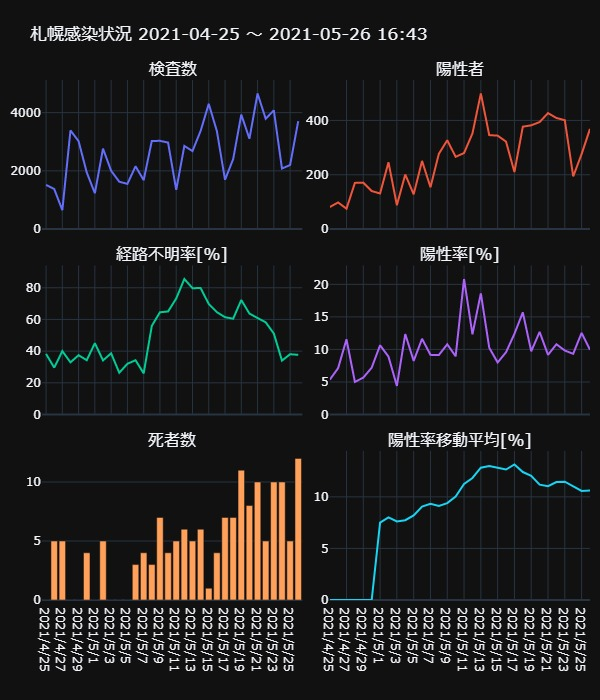
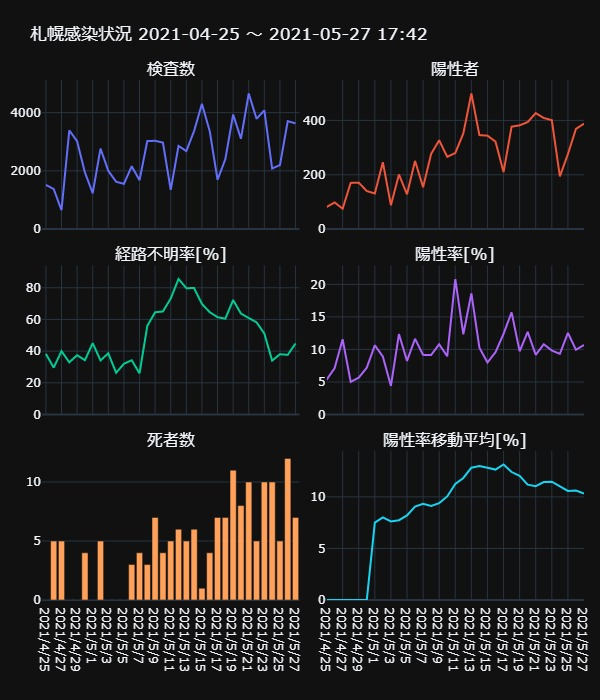
Updated with latest data.

diff --git a/docs/_includes/sapporo.html b/docs/_includes/sapporo.html
@@ -1,1 +1,1 @@
-<div>                            <div id="77634eeb-5a9f-4447-ae09-7cca35d6f6ae" class="plotly-graph-div" style="height:700px; width:600px;"></div>            <script type="text/javascript">                                    window.PLOTLYENV=window.PLOTLYENV || {};                                    if (document.getElementById("77634eeb-5a9f-4447-ae09-7cca35d6f6ae")) {                    Plotly.newPlot(                        "77634eeb-5a9f-4447-ae09-7cca35d6f6ae",                        [{"name": "\u691c\u67fb\u6570", "type": "scatter", "x": ["2021/4/25", "2021/4/26", "2021/4/27", "2021/4/28", "2021/4/29", "2021/4/30", "2021/5/1", "2021/5/2", "2021/5/3", "2021/5/4", "2021/5/5", "2021/5/6", "2021/5/7", "2021/5/8", "2021/5/9", "2021/5/10", "2021/5/11", "2021/5/12", "2021/5/13", "2021/5/14", "2021/5/15", "2021/5/16", "2021/5/17", "2021/5/18", "2021/5/19", "2021/5/20", "2021/5/21", "2021/5/22", "2021/5/23", "2021/5/24", "2021/5/25", "2021/5/26"], "xaxis": "x", "y": [1517, 1377, 649, 3391, 3018, 1946, 1231, 2764, 2001, 1626, 1553, 2157, 1680, 3028, 3031, 2972, 1345, 2856, 2680, 3372, 4302, 3365, 1694, 2402, 3933, 3105, 4656, 3789, 4080, 2080, 2201, 3708], "yaxis": "y"}, {"name": "\u967d\u6027\u8005", "type": "scatter", "x": ["2021/4/25", "2021/4/26", "2021/4/27", "2021/4/28", "2021/4/29", "2021/4/30", "2021/5/1", "2021/5/2", "2021/5/3", "2021/5/4", "2021/5/5", "2021/5/6", "2021/5/7", "2021/5/8", "2021/5/9", "2021/5/10", "2021/5/11", "2021/5/12", "2021/5/13", "2021/5/14", "2021/5/15", "2021/5/16", "2021/5/17", "2021/5/18", "2021/5/19", "2021/5/20", "2021/5/21", "2021/5/22", "2021/5/23", "2021/5/24", "2021/5/25", "2021/5/26"], "xaxis": "x2", "y": [81, 98, 75, 170, 171, 140, 131, 246, 88, 201, 128, 251, 154, 277, 327, 266, 280, 352, 499, 346, 344, 322, 210, 377, 382, 394, 427, 409, 401, 194, 276, 369], "yaxis": "y2"}, {"name": "\u7d4c\u8def\u4e0d\u660e\u7387[%]", "type": "scatter", "x": ["2021/4/25", "2021/4/26", "2021/4/27", "2021/4/28", "2021/4/29", "2021/4/30", "2021/5/1", "2021/5/2", "2021/5/3", "2021/5/4", "2021/5/5", "2021/5/6", "2021/5/7", "2021/5/8", "2021/5/9", "2021/5/10", "2021/5/11", "2021/5/12", "2021/5/13", "2021/5/14", "2021/5/15", "2021/5/16", "2021/5/17", "2021/5/18", "2021/5/19", "2021/5/20", "2021/5/21", "2021/5/22", "2021/5/23", "2021/5/24", "2021/5/25", "2021/5/26"], "xaxis": "x3", "y": [38.2716049382716, 29.591836734693878, 40.0, 32.94117647058823, 37.42690058479532, 34.285714285714285, 45.038167938931295, 34.146341463414636, 38.63636363636363, 26.368159203980102, 32.03125, 34.26294820717131, 25.97402597402597, 55.95667870036101, 64.52599388379205, 65.0375939849624, 73.21428571428571, 85.51136363636364, 79.75951903807615, 79.76878612716763, 69.76744186046511, 64.59627329192547, 61.42857142857143, 60.47745358090185, 72.25130890052355, 63.70558375634518, 60.88992974238876, 58.19070904645477, 51.12219451371571, 34.02061855670103, 38.04347826086957, 37.669376693766935], "yaxis": "y3"}, {"name": "\u967d\u6027\u7387[%]", "type": "scatter", "x": ["2021/4/25", "2021/4/26", "2021/4/27", "2021/4/28", "2021/4/29", "2021/4/30", "2021/5/1", "2021/5/2", "2021/5/3", "2021/5/4", "2021/5/5", "2021/5/6", "2021/5/7", "2021/5/8", "2021/5/9", "2021/5/10", "2021/5/11", "2021/5/12", "2021/5/13", "2021/5/14", "2021/5/15", "2021/5/16", "2021/5/17", "2021/5/18", "2021/5/19", "2021/5/20", "2021/5/21", "2021/5/22", "2021/5/23", "2021/5/24", "2021/5/25", "2021/5/26"], "xaxis": "x4", "y": [5.339485827290705, 7.116920842411038, 11.556240369799692, 5.013270421704512, 5.666003976143141, 7.194244604316546, 10.641754670999187, 8.90014471780029, 4.397801099450275, 12.361623616236162, 8.24211204121056, 11.636532220676866, 9.166666666666666, 9.147952443857331, 10.788518640712635, 8.950201884253028, 20.817843866171003, 12.324929971988796, 18.619402985074625, 10.26097271648873, 7.996280799628081, 9.569093610698365, 12.396694214876034, 15.695253955037469, 9.712687515891178, 12.689210950080515, 9.170962199312713, 10.794404856162576, 9.82843137254902, 9.326923076923077, 12.539754656974104, 9.951456310679612], "yaxis": "y4"}, {"name": "\u6b7b\u8005\u6570", "type": "bar", "x": ["2021/4/25", "2021/4/26", "2021/4/27", "2021/4/28", "2021/4/29", "2021/4/30", "2021/5/1", "2021/5/2", "2021/5/3", "2021/5/4", "2021/5/5", "2021/5/6", "2021/5/7", "2021/5/8", "2021/5/9", "2021/5/10", "2021/5/11", "2021/5/12", "2021/5/13", "2021/5/14", "2021/5/15", "2021/5/16", "2021/5/17", "2021/5/18", "2021/5/19", "2021/5/20", "2021/5/21", "2021/5/22", "2021/5/23", "2021/5/24", "2021/5/25", "2021/5/26"], "xaxis": "x5", "y": [0, 5, 5, 0, 0, 4, 0, 5, 0, 0, 0, 3, 4, 3, 7, 4, 5, 6, 5, 6, 1, 4, 7, 7, 11, 8, 10, 5, 10, 10, 5, 12], "yaxis": "y5"}, {"name": "\u967d\u6027\u7387\u79fb\u52d5\u5e73\u5747[%]", "type": "scatter", "x": ["2021/4/25", "2021/4/26", "2021/4/27", "2021/4/28", "2021/4/29", "2021/4/30", "2021/5/1", "2021/5/2", "2021/5/3", "2021/5/4", "2021/5/5", "2021/5/6", "2021/5/7", "2021/5/8", "2021/5/9", "2021/5/10", "2021/5/11", "2021/5/12", "2021/5/13", "2021/5/14", "2021/5/15", "2021/5/16", "2021/5/17", "2021/5/18", "2021/5/19", "2021/5/20", "2021/5/21", "2021/5/22", "2021/5/23", "2021/5/24", "2021/5/25", "2021/5/26"], "xaxis": "x6", "y": [0.0, 0.0, 0.0, 0.0, 0.0, 0.0, 7.503988673237832, 8.012654229024914, 7.624208551459091, 7.739263300950015, 8.20052638945088, 9.053458995812841, 9.335233576148571, 9.12183325798545, 9.391600961258641, 10.041943930516178, 11.249975394792585, 11.833235099189475, 12.830788065532012, 12.987117501220878, 12.8225929806167, 12.648389404900376, 13.140745452132233, 12.408946893398872, 12.035769399670638, 11.188599108957195, 11.032883320789193, 11.432615328865548, 11.469663580558498, 11.03112484656522, 10.580339232556168, 10.614449060383087], "yaxis": "y6"}],                        {"annotations": [{"font": {"size": 16}, "showarrow": false, "text": "\u691c\u67fb\u6570", "x": 0.2375, "xanchor": "center", "xref": "paper", "y": 1.0, "yanchor": "bottom", "yref": "paper"}, {"font": {"size": 16}, "showarrow": false, "text": "\u967d\u6027\u8005", "x": 0.7625, "xanchor": "center", "xref": "paper", "y": 1.0, "yanchor": "bottom", "yref": "paper"}, {"font": {"size": 16}, "showarrow": false, "text": "\u7d4c\u8def\u4e0d\u660e\u7387[%]", "x": 0.2375, "xanchor": "center", "xref": "paper", "y": 0.6433333333333333, "yanchor": "bottom", "yref": "paper"}, {"font": {"size": 16}, "showarrow": false, "text": "\u967d\u6027\u7387[%]", "x": 0.7625, "xanchor": "center", "xref": "paper", "y": 0.6433333333333333, "yanchor": "bottom", "yref": "paper"}, {"font": {"size": 16}, "showarrow": false, "text": "\u6b7b\u8005\u6570", "x": 0.2375, "xanchor": "center", "xref": "paper", "y": 0.2866666666666667, "yanchor": "bottom", "yref": "paper"}, {"font": {"size": 16}, "showarrow": false, "text": "\u967d\u6027\u7387\u79fb\u52d5\u5e73\u5747[%]", "x": 0.7625, "xanchor": "center", "xref": "paper", "y": 0.2866666666666667, "yanchor": "bottom", "yref": "paper"}], "height": 700, "margin": {"b": 100, "l": 10, "r": 10, "t": 80}, "showlegend": false, "template": {"data": {"bar": [{"error_x": {"color": "#f2f5fa"}, "error_y": {"color": "#f2f5fa"}, "marker": {"line": {"color": "rgb(17,17,17)", "width": 0.5}}, "type": "bar"}], "barpolar": [{"marker": {"line": {"color": "rgb(17,17,17)", "width": 0.5}}, "type": "barpolar"}], "carpet": [{"aaxis": {"endlinecolor": "#A2B1C6", "gridcolor": "#506784", "linecolor": "#506784", "minorgridcolor": "#506784", "startlinecolor": "#A2B1C6"}, "baxis": {"endlinecolor": "#A2B1C6", "gridcolor": "#506784", "linecolor": "#506784", "minorgridcolor": "#506784", "startlinecolor": "#A2B1C6"}, "type": "carpet"}], "choropleth": [{"colorbar": {"outlinewidth": 0, "ticks": ""}, "type": "choropleth"}], "contour": [{"colorbar": {"outlinewidth": 0, "ticks": ""}, "colorscale": [[0.0, "#0d0887"], [0.1111111111111111, "#46039f"], [0.2222222222222222, "#7201a8"], [0.3333333333333333, "#9c179e"], [0.4444444444444444, "#bd3786"], [0.5555555555555556, "#d8576b"], [0.6666666666666666, "#ed7953"], [0.7777777777777778, "#fb9f3a"], [0.8888888888888888, "#fdca26"], [1.0, "#f0f921"]], "type": "contour"}], "contourcarpet": [{"colorbar": {"outlinewidth": 0, "ticks": ""}, "type": "contourcarpet"}], "heatmap": [{"colorbar": {"outlinewidth": 0, "ticks": ""}, "colorscale": [[0.0, "#0d0887"], [0.1111111111111111, "#46039f"], [0.2222222222222222, "#7201a8"], [0.3333333333333333, "#9c179e"], [0.4444444444444444, "#bd3786"], [0.5555555555555556, "#d8576b"], [0.6666666666666666, "#ed7953"], [0.7777777777777778, "#fb9f3a"], [0.8888888888888888, "#fdca26"], [1.0, "#f0f921"]], "type": "heatmap"}], "heatmapgl": [{"colorbar": {"outlinewidth": 0, "ticks": ""}, "colorscale": [[0.0, "#0d0887"], [0.1111111111111111, "#46039f"], [0.2222222222222222, "#7201a8"], [0.3333333333333333, "#9c179e"], [0.4444444444444444, "#bd3786"], [0.5555555555555556, "#d8576b"], [0.6666666666666666, "#ed7953"], [0.7777777777777778, "#fb9f3a"], [0.8888888888888888, "#fdca26"], [1.0, "#f0f921"]], "type": "heatmapgl"}], "histogram": [{"marker": {"colorbar": {"outlinewidth": 0, "ticks": ""}}, "type": "histogram"}], "histogram2d": [{"colorbar": {"outlinewidth": 0, "ticks": ""}, "colorscale": [[0.0, "#0d0887"], [0.1111111111111111, "#46039f"], [0.2222222222222222, "#7201a8"], [0.3333333333333333, "#9c179e"], [0.4444444444444444, "#bd3786"], [0.5555555555555556, "#d8576b"], [0.6666666666666666, "#ed7953"], [0.7777777777777778, "#fb9f3a"], [0.8888888888888888, "#fdca26"], [1.0, "#f0f921"]], "type": "histogram2d"}], "histogram2dcontour": [{"colorbar": {"outlinewidth": 0, "ticks": ""}, "colorscale": [[0.0, "#0d0887"], [0.1111111111111111, "#46039f"], [0.2222222222222222, "#7201a8"], [0.3333333333333333, "#9c179e"], [0.4444444444444444, "#bd3786"], [0.5555555555555556, "#d8576b"], [0.6666666666666666, "#ed7953"], [0.7777777777777778, "#fb9f3a"], [0.8888888888888888, "#fdca26"], [1.0, "#f0f921"]], "type": "histogram2dcontour"}], "mesh3d": [{"colorbar": {"outlinewidth": 0, "ticks": ""}, "type": "mesh3d"}], "parcoords": [{"line": {"colorbar": {"outlinewidth": 0, "ticks": ""}}, "type": "parcoords"}], "pie": [{"automargin": true, "type": "pie"}], "scatter": [{"marker": {"line": {"color": "#283442"}}, "type": "scatter"}], "scatter3d": [{"line": {"colorbar": {"outlinewidth": 0, "ticks": ""}}, "marker": {"colorbar": {"outlinewidth": 0, "ticks": ""}}, "type": "scatter3d"}], "scattercarpet": [{"marker": {"colorbar": {"outlinewidth": 0, "ticks": ""}}, "type": "scattercarpet"}], "scattergeo": [{"marker": {"colorbar": {"outlinewidth": 0, "ticks": ""}}, "type": "scattergeo"}], "scattergl": [{"marker": {"line": {"color": "#283442"}}, "type": "scattergl"}], "scattermapbox": [{"marker": {"colorbar": {"outlinewidth": 0, "ticks": ""}}, "type": "scattermapbox"}], "scatterpolar": [{"marker": {"colorbar": {"outlinewidth": 0, "ticks": ""}}, "type": "scatterpolar"}], "scatterpolargl": [{"marker": {"colorbar": {"outlinewidth": 0, "ticks": ""}}, "type": "scatterpolargl"}], "scatterternary": [{"marker": {"colorbar": {"outlinewidth": 0, "ticks": ""}}, "type": "scatterternary"}], "surface": [{"colorbar": {"outlinewidth": 0, "ticks": ""}, "colorscale": [[0.0, "#0d0887"], [0.1111111111111111, "#46039f"], [0.2222222222222222, "#7201a8"], [0.3333333333333333, "#9c179e"], [0.4444444444444444, "#bd3786"], [0.5555555555555556, "#d8576b"], [0.6666666666666666, "#ed7953"], [0.7777777777777778, "#fb9f3a"], [0.8888888888888888, "#fdca26"], [1.0, "#f0f921"]], "type": "surface"}], "table": [{"cells": {"fill": {"color": "#506784"}, "line": {"color": "rgb(17,17,17)"}}, "header": {"fill": {"color": "#2a3f5f"}, "line": {"color": "rgb(17,17,17)"}}, "type": "table"}]}, "layout": {"annotationdefaults": {"arrowcolor": "#f2f5fa", "arrowhead": 0, "arrowwidth": 1}, "autotypenumbers": "strict", "coloraxis": {"colorbar": {"outlinewidth": 0, "ticks": ""}}, "colorscale": {"diverging": [[0, "#8e0152"], [0.1, "#c51b7d"], [0.2, "#de77ae"], [0.3, "#f1b6da"], [0.4, "#fde0ef"], [0.5, "#f7f7f7"], [0.6, "#e6f5d0"], [0.7, "#b8e186"], [0.8, "#7fbc41"], [0.9, "#4d9221"], [1, "#276419"]], "sequential": [[0.0, "#0d0887"], [0.1111111111111111, "#46039f"], [0.2222222222222222, "#7201a8"], [0.3333333333333333, "#9c179e"], [0.4444444444444444, "#bd3786"], [0.5555555555555556, "#d8576b"], [0.6666666666666666, "#ed7953"], [0.7777777777777778, "#fb9f3a"], [0.8888888888888888, "#fdca26"], [1.0, "#f0f921"]], "sequentialminus": [[0.0, "#0d0887"], [0.1111111111111111, "#46039f"], [0.2222222222222222, "#7201a8"], [0.3333333333333333, "#9c179e"], [0.4444444444444444, "#bd3786"], [0.5555555555555556, "#d8576b"], [0.6666666666666666, "#ed7953"], [0.7777777777777778, "#fb9f3a"], [0.8888888888888888, "#fdca26"], [1.0, "#f0f921"]]}, "colorway": ["#636efa", "#EF553B", "#00cc96", "#ab63fa", "#FFA15A", "#19d3f3", "#FF6692", "#B6E880", "#FF97FF", "#FECB52"], "font": {"color": "#f2f5fa"}, "geo": {"bgcolor": "rgb(17,17,17)", "lakecolor": "rgb(17,17,17)", "landcolor": "rgb(17,17,17)", "showlakes": true, "showland": true, "subunitcolor": "#506784"}, "hoverlabel": {"align": "left"}, "hovermode": "closest", "mapbox": {"style": "dark"}, "paper_bgcolor": "rgb(17,17,17)", "plot_bgcolor": "rgb(17,17,17)", "polar": {"angularaxis": {"gridcolor": "#506784", "linecolor": "#506784", "ticks": ""}, "bgcolor": "rgb(17,17,17)", "radialaxis": {"gridcolor": "#506784", "linecolor": "#506784", "ticks": ""}}, "scene": {"xaxis": {"backgroundcolor": "rgb(17,17,17)", "gridcolor": "#506784", "gridwidth": 2, "linecolor": "#506784", "showbackground": true, "ticks": "", "zerolinecolor": "#C8D4E3"}, "yaxis": {"backgroundcolor": "rgb(17,17,17)", "gridcolor": "#506784", "gridwidth": 2, "linecolor": "#506784", "showbackground": true, "ticks": "", "zerolinecolor": "#C8D4E3"}, "zaxis": {"backgroundcolor": "rgb(17,17,17)", "gridcolor": "#506784", "gridwidth": 2, "linecolor": "#506784", "showbackground": true, "ticks": "", "zerolinecolor": "#C8D4E3"}}, "shapedefaults": {"line": {"color": "#f2f5fa"}}, "sliderdefaults": {"bgcolor": "#C8D4E3", "bordercolor": "rgb(17,17,17)", "borderwidth": 1, "tickwidth": 0}, "ternary": {"aaxis": {"gridcolor": "#506784", "linecolor": "#506784", "ticks": ""}, "baxis": {"gridcolor": "#506784", "linecolor": "#506784", "ticks": ""}, "bgcolor": "rgb(17,17,17)", "caxis": {"gridcolor": "#506784", "linecolor": "#506784", "ticks": ""}}, "title": {"x": 0.05}, "updatemenudefaults": {"bgcolor": "#506784", "borderwidth": 0}, "xaxis": {"automargin": true, "gridcolor": "#283442", "linecolor": "#506784", "ticks": "", "title": {"standoff": 15}, "zerolinecolor": "#283442", "zerolinewidth": 2}, "yaxis": {"automargin": true, "gridcolor": "#283442", "linecolor": "#506784", "ticks": "", "title": {"standoff": 15}, "zerolinecolor": "#283442", "zerolinewidth": 2}}}, "title": {"text": "\u672d\u5e4c\u611f\u67d3\u72b6\u6cc1 2021-04-25 \uff5e 2021-05-26 16:43"}, "width": 600, "xaxis": {"anchor": "y", "domain": [0.0, 0.475], "matches": "x5", "showticklabels": false}, "xaxis2": {"anchor": "y2", "domain": [0.525, 1.0], "matches": "x6", "showticklabels": false}, "xaxis3": {"anchor": "y3", "domain": [0.0, 0.475], "matches": "x5", "showticklabels": false}, "xaxis4": {"anchor": "y4", "domain": [0.525, 1.0], "matches": "x6", "showticklabels": false}, "xaxis5": {"anchor": "y5", "domain": [0.0, 0.475]}, "xaxis6": {"anchor": "y6", "domain": [0.525, 1.0]}, "yaxis": {"anchor": "x", "domain": [0.7133333333333334, 1.0], "range": [0, 5121.6]}, "yaxis2": {"anchor": "x2", "domain": [0.7133333333333334, 1.0], "range": [0, 548.9000000000001]}, "yaxis3": {"anchor": "x3", "domain": [0.3566666666666667, 0.6433333333333333], "range": [0, 94.06250000000001]}, "yaxis4": {"anchor": "x4", "domain": [0.3566666666666667, 0.6433333333333333], "range": [0, 22.899628252788105]}, "yaxis5": {"anchor": "x5", "domain": [0.0, 0.2866666666666667]}, "yaxis6": {"anchor": "x6", "domain": [0.0, 0.2866666666666667], "range": [0, 14.454819997345457]}},                        {"responsive": true}                    )                };                            </script>        </div>
+<div>                            <div id="28dfac5b-bb0c-4555-ad50-c89095ffc276" class="plotly-graph-div" style="height:700px; width:600px;"></div>            <script type="text/javascript">                                    window.PLOTLYENV=window.PLOTLYENV || {};                                    if (document.getElementById("28dfac5b-bb0c-4555-ad50-c89095ffc276")) {                    Plotly.newPlot(                        "28dfac5b-bb0c-4555-ad50-c89095ffc276",                        [{"name": "\u691c\u67fb\u6570", "type": "scatter", "x": ["2021/4/25", "2021/4/26", "2021/4/27", "2021/4/28", "2021/4/29", "2021/4/30", "2021/5/1", "2021/5/2", "2021/5/3", "2021/5/4", "2021/5/5", "2021/5/6", "2021/5/7", "2021/5/8", "2021/5/9", "2021/5/10", "2021/5/11", "2021/5/12", "2021/5/13", "2021/5/14", "2021/5/15", "2021/5/16", "2021/5/17", "2021/5/18", "2021/5/19", "2021/5/20", "2021/5/21", "2021/5/22", "2021/5/23", "2021/5/24", "2021/5/25", "2021/5/26", "2021/5/27"], "xaxis": "x", "y": [1517, 1377, 649, 3391, 3018, 1946, 1231, 2764, 2001, 1626, 1553, 2157, 1680, 3028, 3031, 2972, 1345, 2856, 2680, 3372, 4302, 3365, 1694, 2402, 3933, 3105, 4656, 3789, 4080, 2080, 2201, 3708, 3632], "yaxis": "y"}, {"name": "\u967d\u6027\u8005", "type": "scatter", "x": ["2021/4/25", "2021/4/26", "2021/4/27", "2021/4/28", "2021/4/29", "2021/4/30", "2021/5/1", "2021/5/2", "2021/5/3", "2021/5/4", "2021/5/5", "2021/5/6", "2021/5/7", "2021/5/8", "2021/5/9", "2021/5/10", "2021/5/11", "2021/5/12", "2021/5/13", "2021/5/14", "2021/5/15", "2021/5/16", "2021/5/17", "2021/5/18", "2021/5/19", "2021/5/20", "2021/5/21", "2021/5/22", "2021/5/23", "2021/5/24", "2021/5/25", "2021/5/26", "2021/5/27"], "xaxis": "x2", "y": [81, 98, 75, 170, 171, 140, 131, 246, 88, 201, 128, 251, 154, 277, 327, 266, 280, 352, 499, 346, 344, 322, 210, 377, 382, 394, 427, 409, 401, 194, 276, 369, 388], "yaxis": "y2"}, {"name": "\u7d4c\u8def\u4e0d\u660e\u7387[%]", "type": "scatter", "x": ["2021/4/25", "2021/4/26", "2021/4/27", "2021/4/28", "2021/4/29", "2021/4/30", "2021/5/1", "2021/5/2", "2021/5/3", "2021/5/4", "2021/5/5", "2021/5/6", "2021/5/7", "2021/5/8", "2021/5/9", "2021/5/10", "2021/5/11", "2021/5/12", "2021/5/13", "2021/5/14", "2021/5/15", "2021/5/16", "2021/5/17", "2021/5/18", "2021/5/19", "2021/5/20", "2021/5/21", "2021/5/22", "2021/5/23", "2021/5/24", "2021/5/25", "2021/5/26", "2021/5/27"], "xaxis": "x3", "y": [38.2716049382716, 29.591836734693878, 40.0, 32.94117647058823, 37.42690058479532, 34.285714285714285, 45.038167938931295, 34.146341463414636, 38.63636363636363, 26.368159203980102, 32.03125, 34.26294820717131, 25.97402597402597, 55.95667870036101, 64.52599388379205, 65.0375939849624, 73.21428571428571, 85.51136363636364, 79.75951903807615, 79.76878612716763, 69.76744186046511, 64.59627329192547, 61.42857142857143, 60.47745358090185, 72.25130890052355, 63.70558375634518, 60.88992974238876, 58.19070904645477, 51.12219451371571, 34.02061855670103, 38.04347826086957, 37.669376693766935, 44.84536082474227], "yaxis": "y3"}, {"name": "\u967d\u6027\u7387[%]", "type": "scatter", "x": ["2021/4/25", "2021/4/26", "2021/4/27", "2021/4/28", "2021/4/29", "2021/4/30", "2021/5/1", "2021/5/2", "2021/5/3", "2021/5/4", "2021/5/5", "2021/5/6", "2021/5/7", "2021/5/8", "2021/5/9", "2021/5/10", "2021/5/11", "2021/5/12", "2021/5/13", "2021/5/14", "2021/5/15", "2021/5/16", "2021/5/17", "2021/5/18", "2021/5/19", "2021/5/20", "2021/5/21", "2021/5/22", "2021/5/23", "2021/5/24", "2021/5/25", "2021/5/26", "2021/5/27"], "xaxis": "x4", "y": [5.339485827290705, 7.116920842411038, 11.556240369799692, 5.013270421704512, 5.666003976143141, 7.194244604316546, 10.641754670999187, 8.90014471780029, 4.397801099450275, 12.361623616236162, 8.24211204121056, 11.636532220676866, 9.166666666666666, 9.147952443857331, 10.788518640712635, 8.950201884253028, 20.817843866171003, 12.324929971988796, 18.619402985074625, 10.26097271648873, 7.996280799628081, 9.569093610698365, 12.396694214876034, 15.695253955037469, 9.712687515891178, 12.689210950080515, 9.170962199312713, 10.794404856162576, 9.82843137254902, 9.326923076923077, 12.539754656974104, 9.951456310679612, 10.682819383259911], "yaxis": "y4"}, {"name": "\u6b7b\u8005\u6570", "type": "bar", "x": ["2021/4/25", "2021/4/26", "2021/4/27", "2021/4/28", "2021/4/29", "2021/4/30", "2021/5/1", "2021/5/2", "2021/5/3", "2021/5/4", "2021/5/5", "2021/5/6", "2021/5/7", "2021/5/8", "2021/5/9", "2021/5/10", "2021/5/11", "2021/5/12", "2021/5/13", "2021/5/14", "2021/5/15", "2021/5/16", "2021/5/17", "2021/5/18", "2021/5/19", "2021/5/20", "2021/5/21", "2021/5/22", "2021/5/23", "2021/5/24", "2021/5/25", "2021/5/26", "2021/5/27"], "xaxis": "x5", "y": [0, 5, 5, 0, 0, 4, 0, 5, 0, 0, 0, 3, 4, 3, 7, 4, 5, 6, 5, 6, 1, 4, 7, 7, 11, 8, 10, 5, 10, 10, 5, 12, 7], "yaxis": "y5"}, {"name": "\u967d\u6027\u7387\u79fb\u52d5\u5e73\u5747[%]", "type": "scatter", "x": ["2021/4/25", "2021/4/26", "2021/4/27", "2021/4/28", "2021/4/29", "2021/4/30", "2021/5/1", "2021/5/2", "2021/5/3", "2021/5/4", "2021/5/5", "2021/5/6", "2021/5/7", "2021/5/8", "2021/5/9", "2021/5/10", "2021/5/11", "2021/5/12", "2021/5/13", "2021/5/14", "2021/5/15", "2021/5/16", "2021/5/17", "2021/5/18", "2021/5/19", "2021/5/20", "2021/5/21", "2021/5/22", "2021/5/23", "2021/5/24", "2021/5/25", "2021/5/26", "2021/5/27"], "xaxis": "x6", "y": [0.0, 0.0, 0.0, 0.0, 0.0, 0.0, 7.503988673237832, 8.012654229024914, 7.624208551459091, 7.739263300950015, 8.20052638945088, 9.053458995812841, 9.335233576148571, 9.12183325798545, 9.391600961258641, 10.041943930516178, 11.249975394792585, 11.833235099189475, 12.830788065532012, 12.987117501220878, 12.8225929806167, 12.648389404900376, 13.140745452132233, 12.408946893398872, 12.035769399670638, 11.188599108957195, 11.032883320789193, 11.432615328865548, 11.469663580558498, 11.03112484656522, 10.580339232556168, 10.614449060383087, 10.32782169369443], "yaxis": "y6"}],                        {"annotations": [{"font": {"size": 16}, "showarrow": false, "text": "\u691c\u67fb\u6570", "x": 0.2375, "xanchor": "center", "xref": "paper", "y": 1.0, "yanchor": "bottom", "yref": "paper"}, {"font": {"size": 16}, "showarrow": false, "text": "\u967d\u6027\u8005", "x": 0.7625, "xanchor": "center", "xref": "paper", "y": 1.0, "yanchor": "bottom", "yref": "paper"}, {"font": {"size": 16}, "showarrow": false, "text": "\u7d4c\u8def\u4e0d\u660e\u7387[%]", "x": 0.2375, "xanchor": "center", "xref": "paper", "y": 0.6433333333333333, "yanchor": "bottom", "yref": "paper"}, {"font": {"size": 16}, "showarrow": false, "text": "\u967d\u6027\u7387[%]", "x": 0.7625, "xanchor": "center", "xref": "paper", "y": 0.6433333333333333, "yanchor": "bottom", "yref": "paper"}, {"font": {"size": 16}, "showarrow": false, "text": "\u6b7b\u8005\u6570", "x": 0.2375, "xanchor": "center", "xref": "paper", "y": 0.2866666666666667, "yanchor": "bottom", "yref": "paper"}, {"font": {"size": 16}, "showarrow": false, "text": "\u967d\u6027\u7387\u79fb\u52d5\u5e73\u5747[%]", "x": 0.7625, "xanchor": "center", "xref": "paper", "y": 0.2866666666666667, "yanchor": "bottom", "yref": "paper"}], "height": 700, "margin": {"b": 100, "l": 10, "r": 10, "t": 80}, "showlegend": false, "template": {"data": {"bar": [{"error_x": {"color": "#f2f5fa"}, "error_y": {"color": "#f2f5fa"}, "marker": {"line": {"color": "rgb(17,17,17)", "width": 0.5}}, "type": "bar"}], "barpolar": [{"marker": {"line": {"color": "rgb(17,17,17)", "width": 0.5}}, "type": "barpolar"}], "carpet": [{"aaxis": {"endlinecolor": "#A2B1C6", "gridcolor": "#506784", "linecolor": "#506784", "minorgridcolor": "#506784", "startlinecolor": "#A2B1C6"}, "baxis": {"endlinecolor": "#A2B1C6", "gridcolor": "#506784", "linecolor": "#506784", "minorgridcolor": "#506784", "startlinecolor": "#A2B1C6"}, "type": "carpet"}], "choropleth": [{"colorbar": {"outlinewidth": 0, "ticks": ""}, "type": "choropleth"}], "contour": [{"colorbar": {"outlinewidth": 0, "ticks": ""}, "colorscale": [[0.0, "#0d0887"], [0.1111111111111111, "#46039f"], [0.2222222222222222, "#7201a8"], [0.3333333333333333, "#9c179e"], [0.4444444444444444, "#bd3786"], [0.5555555555555556, "#d8576b"], [0.6666666666666666, "#ed7953"], [0.7777777777777778, "#fb9f3a"], [0.8888888888888888, "#fdca26"], [1.0, "#f0f921"]], "type": "contour"}], "contourcarpet": [{"colorbar": {"outlinewidth": 0, "ticks": ""}, "type": "contourcarpet"}], "heatmap": [{"colorbar": {"outlinewidth": 0, "ticks": ""}, "colorscale": [[0.0, "#0d0887"], [0.1111111111111111, "#46039f"], [0.2222222222222222, "#7201a8"], [0.3333333333333333, "#9c179e"], [0.4444444444444444, "#bd3786"], [0.5555555555555556, "#d8576b"], [0.6666666666666666, "#ed7953"], [0.7777777777777778, "#fb9f3a"], [0.8888888888888888, "#fdca26"], [1.0, "#f0f921"]], "type": "heatmap"}], "heatmapgl": [{"colorbar": {"outlinewidth": 0, "ticks": ""}, "colorscale": [[0.0, "#0d0887"], [0.1111111111111111, "#46039f"], [0.2222222222222222, "#7201a8"], [0.3333333333333333, "#9c179e"], [0.4444444444444444, "#bd3786"], [0.5555555555555556, "#d8576b"], [0.6666666666666666, "#ed7953"], [0.7777777777777778, "#fb9f3a"], [0.8888888888888888, "#fdca26"], [1.0, "#f0f921"]], "type": "heatmapgl"}], "histogram": [{"marker": {"colorbar": {"outlinewidth": 0, "ticks": ""}}, "type": "histogram"}], "histogram2d": [{"colorbar": {"outlinewidth": 0, "ticks": ""}, "colorscale": [[0.0, "#0d0887"], [0.1111111111111111, "#46039f"], [0.2222222222222222, "#7201a8"], [0.3333333333333333, "#9c179e"], [0.4444444444444444, "#bd3786"], [0.5555555555555556, "#d8576b"], [0.6666666666666666, "#ed7953"], [0.7777777777777778, "#fb9f3a"], [0.8888888888888888, "#fdca26"], [1.0, "#f0f921"]], "type": "histogram2d"}], "histogram2dcontour": [{"colorbar": {"outlinewidth": 0, "ticks": ""}, "colorscale": [[0.0, "#0d0887"], [0.1111111111111111, "#46039f"], [0.2222222222222222, "#7201a8"], [0.3333333333333333, "#9c179e"], [0.4444444444444444, "#bd3786"], [0.5555555555555556, "#d8576b"], [0.6666666666666666, "#ed7953"], [0.7777777777777778, "#fb9f3a"], [0.8888888888888888, "#fdca26"], [1.0, "#f0f921"]], "type": "histogram2dcontour"}], "mesh3d": [{"colorbar": {"outlinewidth": 0, "ticks": ""}, "type": "mesh3d"}], "parcoords": [{"line": {"colorbar": {"outlinewidth": 0, "ticks": ""}}, "type": "parcoords"}], "pie": [{"automargin": true, "type": "pie"}], "scatter": [{"marker": {"line": {"color": "#283442"}}, "type": "scatter"}], "scatter3d": [{"line": {"colorbar": {"outlinewidth": 0, "ticks": ""}}, "marker": {"colorbar": {"outlinewidth": 0, "ticks": ""}}, "type": "scatter3d"}], "scattercarpet": [{"marker": {"colorbar": {"outlinewidth": 0, "ticks": ""}}, "type": "scattercarpet"}], "scattergeo": [{"marker": {"colorbar": {"outlinewidth": 0, "ticks": ""}}, "type": "scattergeo"}], "scattergl": [{"marker": {"line": {"color": "#283442"}}, "type": "scattergl"}], "scattermapbox": [{"marker": {"colorbar": {"outlinewidth": 0, "ticks": ""}}, "type": "scattermapbox"}], "scatterpolar": [{"marker": {"colorbar": {"outlinewidth": 0, "ticks": ""}}, "type": "scatterpolar"}], "scatterpolargl": [{"marker": {"colorbar": {"outlinewidth": 0, "ticks": ""}}, "type": "scatterpolargl"}], "scatterternary": [{"marker": {"colorbar": {"outlinewidth": 0, "ticks": ""}}, "type": "scatterternary"}], "surface": [{"colorbar": {"outlinewidth": 0, "ticks": ""}, "colorscale": [[0.0, "#0d0887"], [0.1111111111111111, "#46039f"], [0.2222222222222222, "#7201a8"], [0.3333333333333333, "#9c179e"], [0.4444444444444444, "#bd3786"], [0.5555555555555556, "#d8576b"], [0.6666666666666666, "#ed7953"], [0.7777777777777778, "#fb9f3a"], [0.8888888888888888, "#fdca26"], [1.0, "#f0f921"]], "type": "surface"}], "table": [{"cells": {"fill": {"color": "#506784"}, "line": {"color": "rgb(17,17,17)"}}, "header": {"fill": {"color": "#2a3f5f"}, "line": {"color": "rgb(17,17,17)"}}, "type": "table"}]}, "layout": {"annotationdefaults": {"arrowcolor": "#f2f5fa", "arrowhead": 0, "arrowwidth": 1}, "autotypenumbers": "strict", "coloraxis": {"colorbar": {"outlinewidth": 0, "ticks": ""}}, "colorscale": {"diverging": [[0, "#8e0152"], [0.1, "#c51b7d"], [0.2, "#de77ae"], [0.3, "#f1b6da"], [0.4, "#fde0ef"], [0.5, "#f7f7f7"], [0.6, "#e6f5d0"], [0.7, "#b8e186"], [0.8, "#7fbc41"], [0.9, "#4d9221"], [1, "#276419"]], "sequential": [[0.0, "#0d0887"], [0.1111111111111111, "#46039f"], [0.2222222222222222, "#7201a8"], [0.3333333333333333, "#9c179e"], [0.4444444444444444, "#bd3786"], [0.5555555555555556, "#d8576b"], [0.6666666666666666, "#ed7953"], [0.7777777777777778, "#fb9f3a"], [0.8888888888888888, "#fdca26"], [1.0, "#f0f921"]], "sequentialminus": [[0.0, "#0d0887"], [0.1111111111111111, "#46039f"], [0.2222222222222222, "#7201a8"], [0.3333333333333333, "#9c179e"], [0.4444444444444444, "#bd3786"], [0.5555555555555556, "#d8576b"], [0.6666666666666666, "#ed7953"], [0.7777777777777778, "#fb9f3a"], [0.8888888888888888, "#fdca26"], [1.0, "#f0f921"]]}, "colorway": ["#636efa", "#EF553B", "#00cc96", "#ab63fa", "#FFA15A", "#19d3f3", "#FF6692", "#B6E880", "#FF97FF", "#FECB52"], "font": {"color": "#f2f5fa"}, "geo": {"bgcolor": "rgb(17,17,17)", "lakecolor": "rgb(17,17,17)", "landcolor": "rgb(17,17,17)", "showlakes": true, "showland": true, "subunitcolor": "#506784"}, "hoverlabel": {"align": "left"}, "hovermode": "closest", "mapbox": {"style": "dark"}, "paper_bgcolor": "rgb(17,17,17)", "plot_bgcolor": "rgb(17,17,17)", "polar": {"angularaxis": {"gridcolor": "#506784", "linecolor": "#506784", "ticks": ""}, "bgcolor": "rgb(17,17,17)", "radialaxis": {"gridcolor": "#506784", "linecolor": "#506784", "ticks": ""}}, "scene": {"xaxis": {"backgroundcolor": "rgb(17,17,17)", "gridcolor": "#506784", "gridwidth": 2, "linecolor": "#506784", "showbackground": true, "ticks": "", "zerolinecolor": "#C8D4E3"}, "yaxis": {"backgroundcolor": "rgb(17,17,17)", "gridcolor": "#506784", "gridwidth": 2, "linecolor": "#506784", "showbackground": true, "ticks": "", "zerolinecolor": "#C8D4E3"}, "zaxis": {"backgroundcolor": "rgb(17,17,17)", "gridcolor": "#506784", "gridwidth": 2, "linecolor": "#506784", "showbackground": true, "ticks": "", "zerolinecolor": "#C8D4E3"}}, "shapedefaults": {"line": {"color": "#f2f5fa"}}, "sliderdefaults": {"bgcolor": "#C8D4E3", "bordercolor": "rgb(17,17,17)", "borderwidth": 1, "tickwidth": 0}, "ternary": {"aaxis": {"gridcolor": "#506784", "linecolor": "#506784", "ticks": ""}, "baxis": {"gridcolor": "#506784", "linecolor": "#506784", "ticks": ""}, "bgcolor": "rgb(17,17,17)", "caxis": {"gridcolor": "#506784", "linecolor": "#506784", "ticks": ""}}, "title": {"x": 0.05}, "updatemenudefaults": {"bgcolor": "#506784", "borderwidth": 0}, "xaxis": {"automargin": true, "gridcolor": "#283442", "linecolor": "#506784", "ticks": "", "title": {"standoff": 15}, "zerolinecolor": "#283442", "zerolinewidth": 2}, "yaxis": {"automargin": true, "gridcolor": "#283442", "linecolor": "#506784", "ticks": "", "title": {"standoff": 15}, "zerolinecolor": "#283442", "zerolinewidth": 2}}}, "title": {"text": "\u672d\u5e4c\u611f\u67d3\u72b6\u6cc1 2021-04-25 \uff5e 2021-05-27 17:42"}, "width": 600, "xaxis": {"anchor": "y", "domain": [0.0, 0.475], "matches": "x5", "showticklabels": false}, "xaxis2": {"anchor": "y2", "domain": [0.525, 1.0], "matches": "x6", "showticklabels": false}, "xaxis3": {"anchor": "y3", "domain": [0.0, 0.475], "matches": "x5", "showticklabels": false}, "xaxis4": {"anchor": "y4", "domain": [0.525, 1.0], "matches": "x6", "showticklabels": false}, "xaxis5": {"anchor": "y5", "domain": [0.0, 0.475]}, "xaxis6": {"anchor": "y6", "domain": [0.525, 1.0]}, "yaxis": {"anchor": "x", "domain": [0.7133333333333334, 1.0], "range": [0, 5121.6]}, "yaxis2": {"anchor": "x2", "domain": [0.7133333333333334, 1.0], "range": [0, 548.9000000000001]}, "yaxis3": {"anchor": "x3", "domain": [0.3566666666666667, 0.6433333333333333], "range": [0, 94.06250000000001]}, "yaxis4": {"anchor": "x4", "domain": [0.3566666666666667, 0.6433333333333333], "range": [0, 22.899628252788105]}, "yaxis5": {"anchor": "x5", "domain": [0.0, 0.2866666666666667]}, "yaxis6": {"anchor": "x6", "domain": [0.0, 0.2866666666666667], "range": [0, 14.454819997345457]}},                        {"responsive": true}                    )                };                            </script>        </div>
